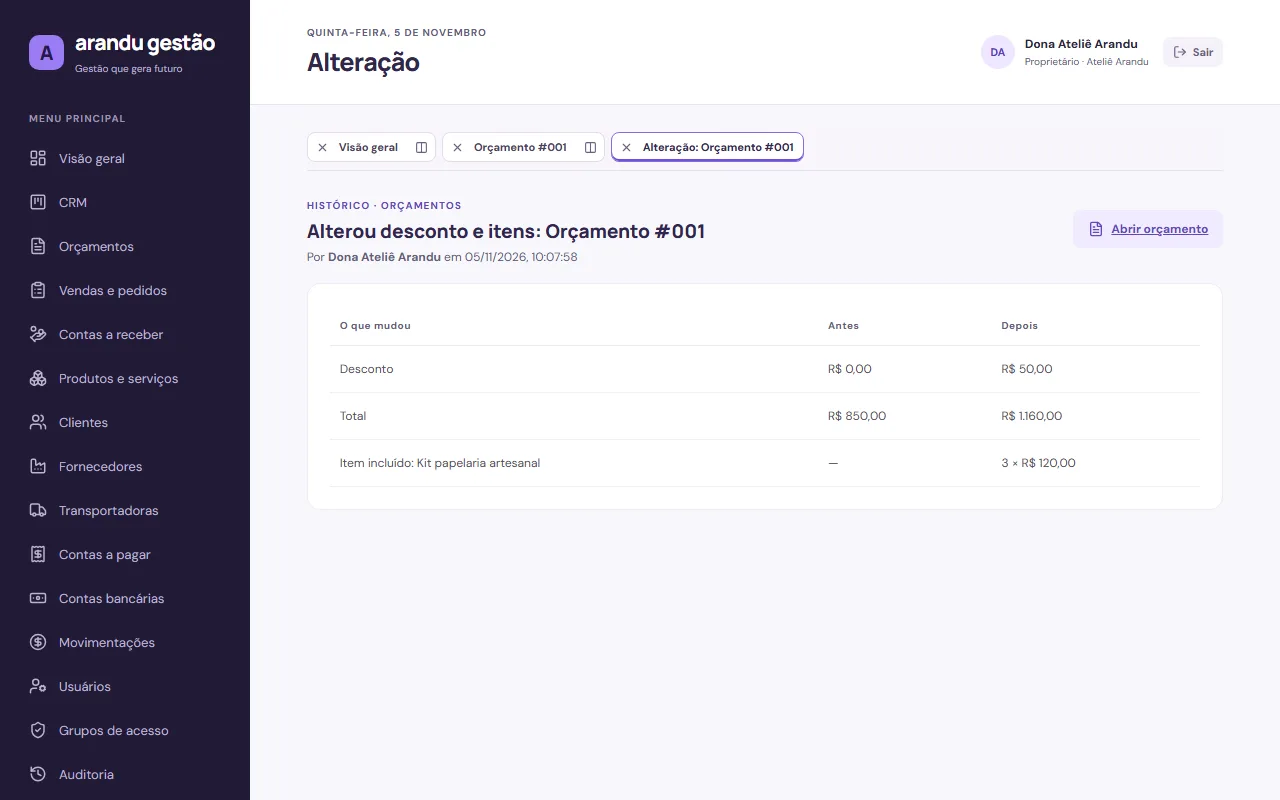
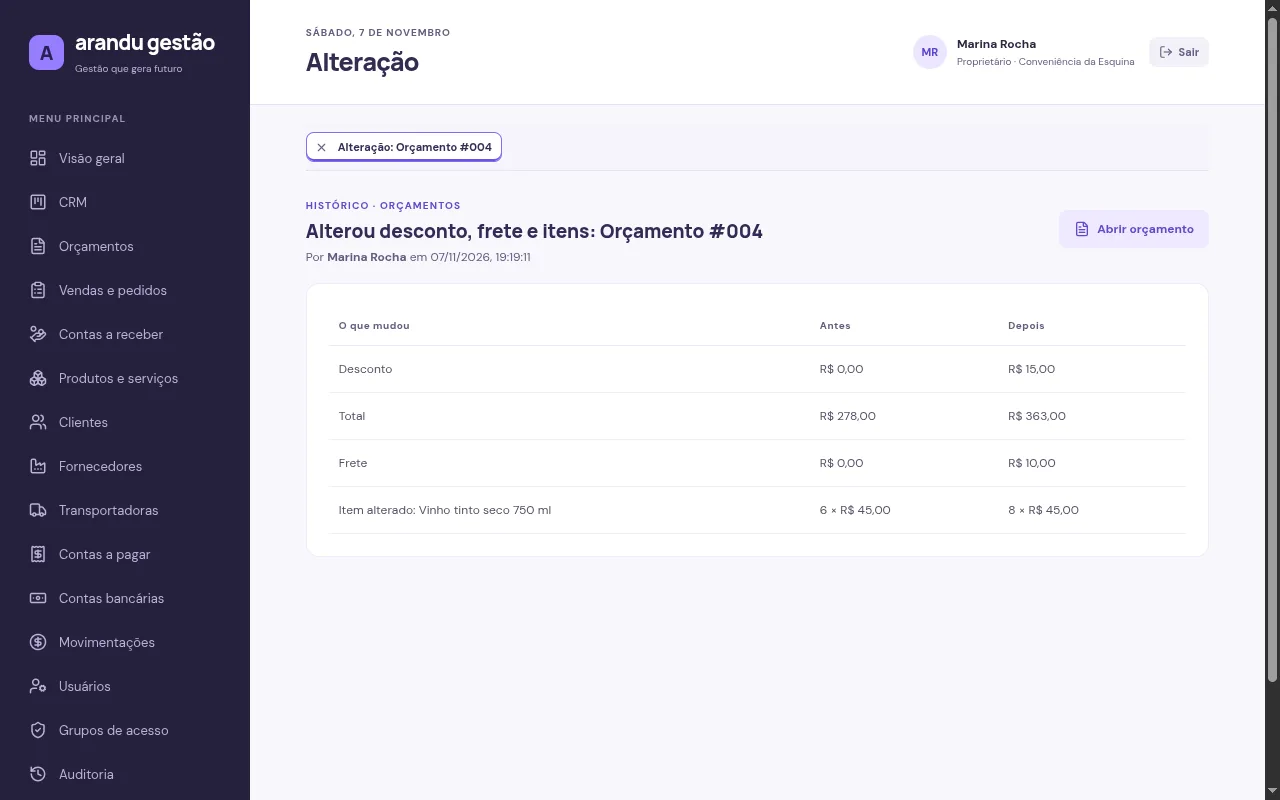
feat: vitrine do Arandu Gestão na v2.5, com o login e as telas da conveniência

diff --git a/projetos/arandue.html b/projetos/arandue.html
@@ -23,7 +23,7 @@
     >
 
     <header class="hero">
-      <p class="eyebrow">Projeto 02 · SaaS full-stack · v2.4 · em evolução contínua</p>
+      <p class="eyebrow">Projeto 02 · SaaS full-stack · v2.5 · em evolução contínua</p>
       <h1>Arandu Gestão</h1>
       <p class="lead">
         Gestão para microempreendedores individuais: orçamentos, vendas,
@@ -45,7 +45,7 @@
         </a>
       </div>
       <p class="demo-acesso">
-        Acesso de teste: <code>dono@atelie.test</code> · senha
+        Acesso de teste: <code>dono@conveniencia.test</code> · senha
         <code>senha-demo-123</code>. Dados fictícios e compartilhados, que voltam
         ao padrão às 00h e às 12h de Cuiabá.
       </p>
@@ -222,8 +222,9 @@
           <li>
             <strong>Financeiro</strong>
             <span
-              >Contas a receber e a pagar, contas bancárias e caixa
-              sincronizado com pedidos e despesas.</span
+              >Contas a receber por parcela, com baixa parcial e em lote, juros,
+              desconto e estorno com senha e motivo; contas a pagar com
+              fornecedor e caixa sincronizado.</span
             >
           </li>
           <li>
@@ -245,7 +246,15 @@
             <span
               >O orçamento vira um documento A4 com os dados da empresa, sem
               custos nem observação interna. O que foi enviado fica guardado, e
-              reabrir exige motivo e um novo envio.</span
+              reabrir exige motivo e um novo envio. O espelho interno mostra
+              custo e margem só para quem pode ver custos.</span
+            >
+          </li>
+          <li>
+            <strong>Ficha do cliente</strong>
+            <span
+              >CRM, documentos e financeiro de cada cliente em uma tela, com
+              dívida, limite e pontualidade.</span
             >
           </li>
           <li>
@@ -290,8 +299,8 @@
       <section aria-labelledby="titulo-qualidade">
         <h2 id="titulo-qualidade">Segurança e qualidade</h2>
         <ul class="numeros">
-          <li><strong>118</strong><span>testes automatizados de integração</span></li>
-          <li><strong>24</strong><span>testes ponta a ponta no navegador</span></li>
+          <li><strong>175</strong><span>testes automatizados de integração</span></li>
+          <li><strong>38</strong><span>testes ponta a ponta no navegador</span></li>
           <li><strong>100</strong><span>em acessibilidade no Lighthouse (celular e desktop)</span></li>
           <li><strong>~121 KB</strong><span>de JavaScript inicial (gzip)</span></li>
         </ul>
@@ -308,8 +317,9 @@
       <section aria-labelledby="titulo-proximos">
         <h2 id="titulo-proximos">Próximas versões</h2>
         <ol class="roteiro">
-          <li><strong>Produtividade:</strong> busca rápida, atalhos de teclado e filtros avançados.</li>
-          <li><strong>Documentos:</strong> orçamentos em seções, parcelas e espelho interno com margem, além de exportação em DOCX.</li>
+          <li><strong>Estoque:</strong> estoque mínimo com aviso, ajuste com motivo e unidade no produto.</li>
+          <li><strong>Listas e relatórios:</strong> valores cadastráveis por empresa e relatórios com exportação em CSV.</li>
+          <li><strong>Agenda e navegação:</strong> agenda de tarefas e vencimentos, busca rápida e atalhos de teclado.</li>
           <li><strong>Gestão:</strong> assistente de precificação e painel com indicadores personalizáveis.</li>
           <li><strong>Assistente de IA:</strong> chat de ajuda e bot no Telegram com confirmação antes de gravar.</li>
         </ol>

diff --git a/README.md b/README.md
@@ -6,7 +6,7 @@
 Este repositório reúne a evolução do meu portfólio pessoal e os projetos
 apresentados nele:
 
-- **Arandu Gestão** *(projeto em destaque, v2.4)* — SaaS de gestão para MEIs, com
+- **Arandu Gestão** *(projeto em destaque, v2.5)* — SaaS de gestão para MEIs, com
   orçamentos, vendas, estoque, financeiro, CRM e histórico de alterações,
   multiempresa e com permissões por ação em grupos de acesso. O
   código fica em [nabornasc/arandu-gestao](https://github.com/nabornasc/arandu-gestao).
